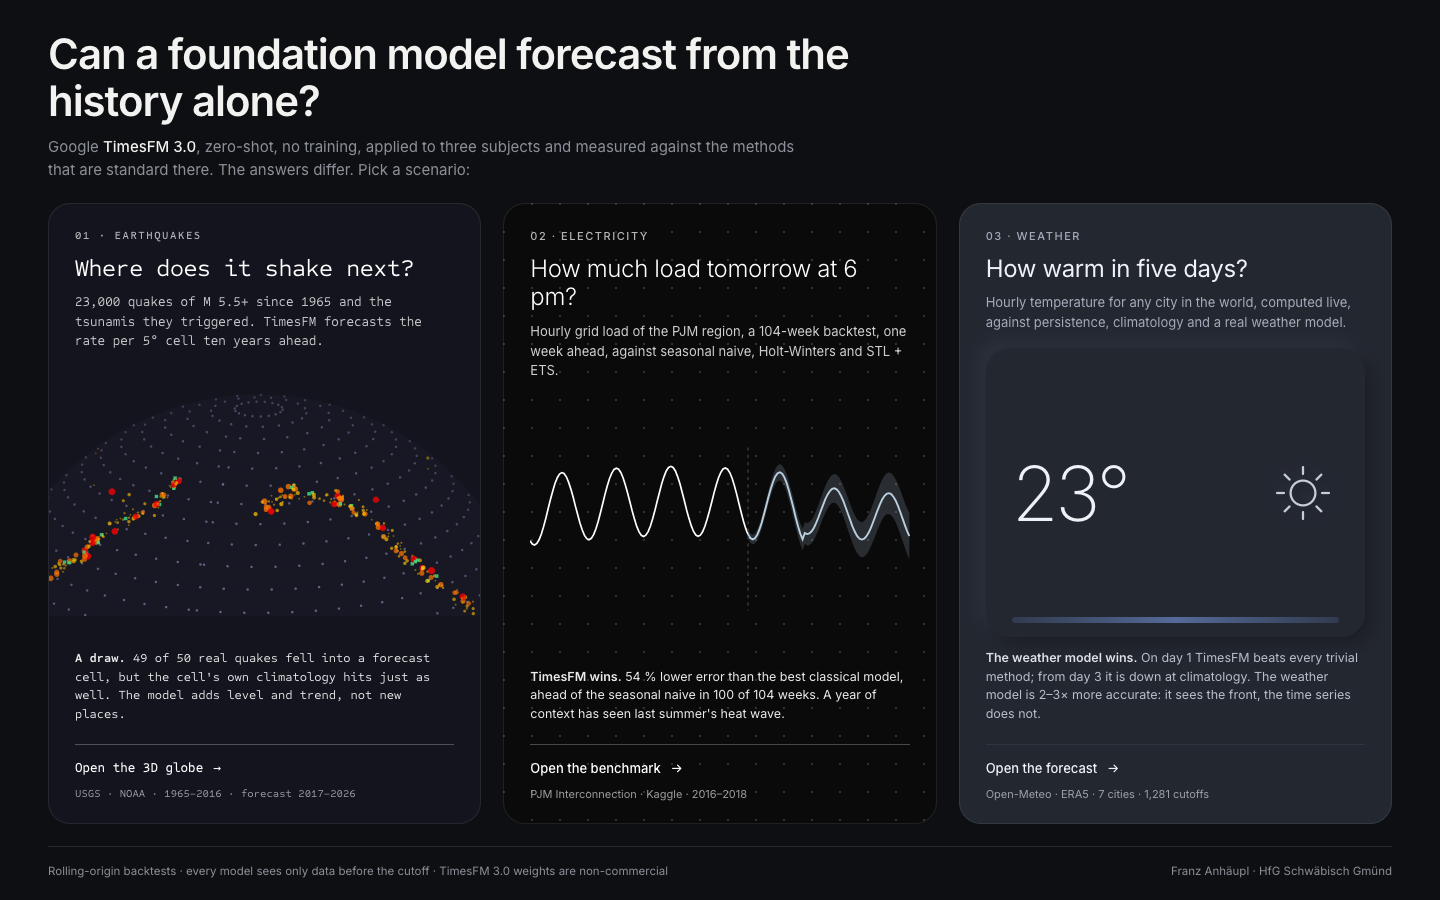
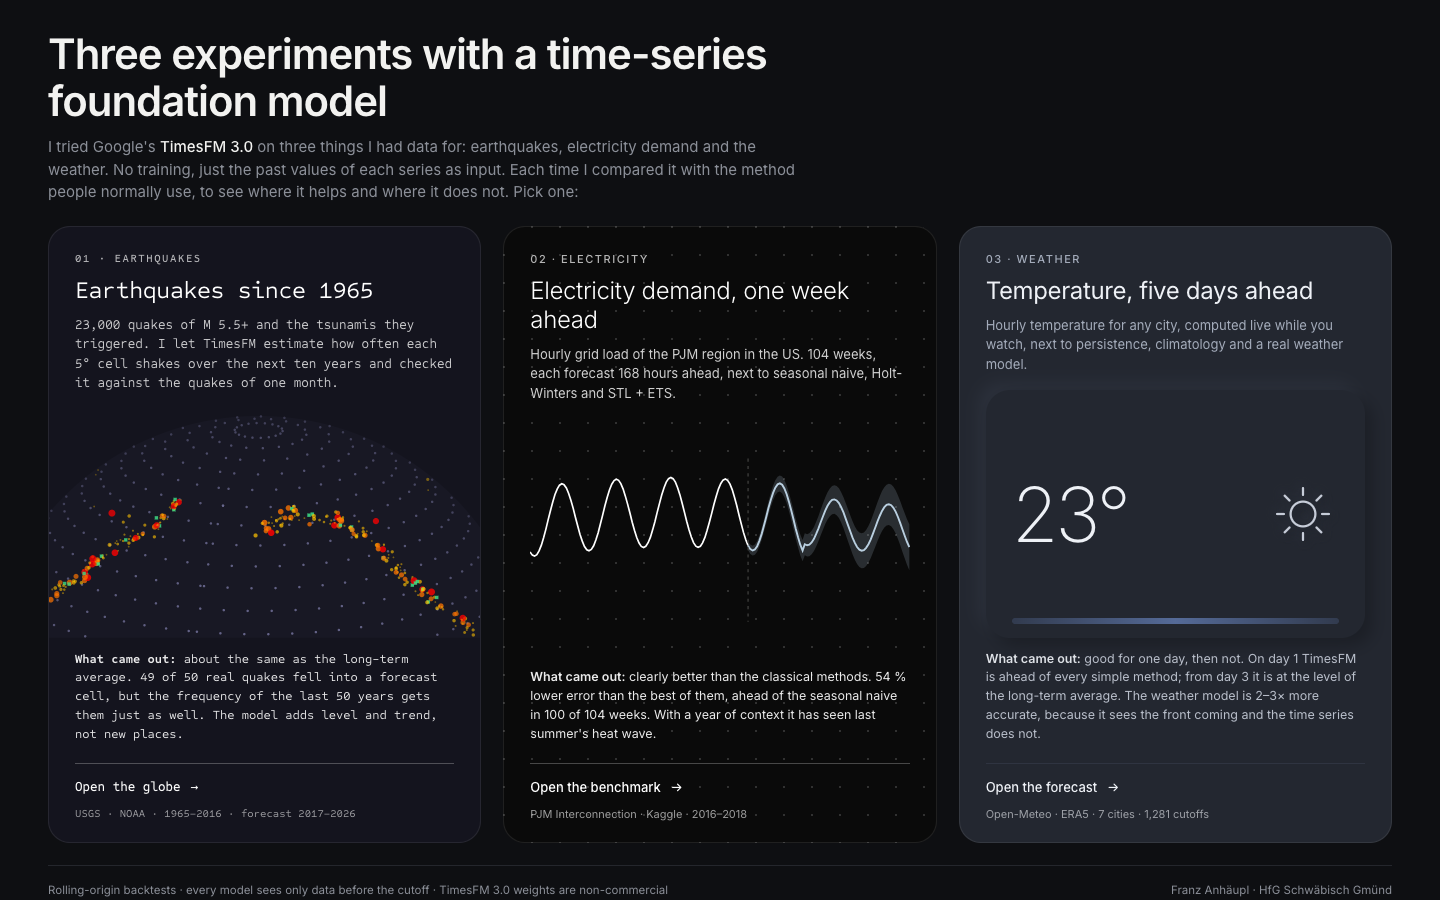
copy: plainer first-person wording on the start page, weather widget, grid verdict and README

diff --git a/src/hub/Hub.tsx b/src/hub/Hub.tsx
@@ -5,43 +5,44 @@ export default function Hub() {
   return (
     <main className="hub">
       <header className="hubHead">
-        <h1>Can a foundation model forecast from the history alone?</h1>
+        <h1>Three experiments with a time-series foundation model</h1>
         <p>
-          Google <b>TimesFM 3.0</b>, zero-shot, no training, applied to three subjects and measured against the methods
-          that are standard there. The answers differ. Pick a scenario:
+          I tried Google's <b>TimesFM 3.0</b> on three things I had data for: earthquakes, electricity demand and the
+          weather. No training, just the past values of each series as input. Each time I compared it with the method
+          people normally use, to see where it helps and where it does not. Pick one:
         </p>
       </header>
 
       <nav className="tiles" aria-label="Scenarios">
         <a className="tile quake" href="./erdbeben.html">
           <span className="no">01 · Earthquakes</span>
-          <h2>Where does it shake next?</h2>
-          <p className="q">23,000 quakes of M 5.5+ since 1965 and the tsunamis they triggered. TimesFM forecasts the rate per 5° cell ten years ahead.</p>
+          <h2>Earthquakes since 1965</h2>
+          <p className="q">23,000 quakes of M 5.5+ and the tsunamis they triggered. I let TimesFM estimate how often each 5° cell shakes over the next ten years and checked it against the quakes of one month.</p>
           <QuakeArt />
           <p className="verdict">
-            <b>A draw.</b> 49 of 50 real quakes fell into a forecast cell, but the cell's own climatology hits just as well. The model adds level and trend, not new places.
+            <b>What came out:</b> about the same as the long-term average. 49 of 50 real quakes fell into a forecast cell, but the frequency of the last 50 years gets them just as well. The model adds level and trend, not new places.
           </p>
-          <span className="open">Open the 3D globe <i>→</i><small>USGS · NOAA · 1965–2016 · forecast 2017–2026</small></span>
+          <span className="open">Open the globe <i>→</i><small>USGS · NOAA · 1965–2016 · forecast 2017–2026</small></span>
         </a>
 
         <a className="tile grid" href="./strom.html">
           <span className="no">02 · Electricity</span>
-          <h2>How much load tomorrow at 6 pm?</h2>
-          <p className="q">Hourly grid load of the PJM region, a 104-week backtest, one week ahead, against seasonal naive, Holt-Winters and STL + ETS.</p>
+          <h2>Electricity demand, one week ahead</h2>
+          <p className="q">Hourly grid load of the PJM region in the US. 104 weeks, each forecast 168 hours ahead, next to seasonal naive, Holt-Winters and STL + ETS.</p>
           <GridArt />
           <p className="verdict">
-            <b>TimesFM wins.</b> 54 % lower error than the best classical model, ahead of the seasonal naive in 100 of 104 weeks. A year of context has seen last summer's heat wave.
+            <b>What came out:</b> clearly better than the classical methods. 54 % lower error than the best of them, ahead of the seasonal naive in 100 of 104 weeks. With a year of context it has seen last summer's heat wave.
           </p>
           <span className="open">Open the benchmark <i>→</i><small>PJM Interconnection · Kaggle · 2016–2018</small></span>
         </a>
 
         <a className="tile weather" href="./wetter.html">
           <span className="no">03 · Weather</span>
-          <h2>How warm in five days?</h2>
-          <p className="q">Hourly temperature for any city in the world, computed live, against persistence, climatology and a real weather model.</p>
+          <h2>Temperature, five days ahead</h2>
+          <p className="q">Hourly temperature for any city, computed live while you watch, next to persistence, climatology and a real weather model.</p>
           <WeatherArt />
           <p className="verdict">
-            <b>The weather model wins.</b> On day 1 TimesFM beats every trivial method; from day 3 it is down at climatology. The weather model is 2–3× more accurate: it sees the front, the time series does not.
+            <b>What came out:</b> good for one day, then not. On day 1 TimesFM is ahead of every simple method; from day 3 it is at the level of the long-term average. The weather model is 2–3× more accurate, because it sees the front coming and the time series does not.
           </p>
           <span className="open">Open the forecast <i>→</i><small>Open-Meteo · ERA5 · 7 cities · 1,281 cutoffs</small></span>
         </a>

diff --git a/src/wetter/components/Duel.tsx b/src/wetter/components/Duel.tsx
@@ -32,7 +32,7 @@ export default function Duel({ err, hind, days, onOpen }: Props) {
   if (!err || !err.byLead.nwp) {
     return (
       <section className="raised duel" aria-label="Model comparison">
-        <span className="label">Who wins?</span>
+        <span className="label">TimesFM vs. weather model</span>
         <p className="duelNote">
           No backtest for this place yet. Run <code>weather/backtest.py</code>.
         </p>
@@ -52,7 +52,7 @@ export default function Duel({ err, hind, days, onOpen }: Props) {
   return (
     <section className="raised duel" aria-label="Model comparison">
       <div className="duelHead">
-        <span className="label">Who wins?</span>
+        <span className="label">TimesFM vs. weather model</span>
         <span className="duelSub">
           Backtest {err.city} {err.year} · {err.cutoffs} cutoffs
         </span>

diff --git a/src/strom/App.tsx b/src/strom/App.tsx
@@ -151,16 +151,16 @@ function headline(
     lead,
     verdict: (
       <>
-        The foundation model wins{' '}
+        TimesFM had the lower error in{' '}
         <b>
           {winsVsBest} of {n} weeks
         </b>{' '}
-        against the best classical method, at <b>{pct}</b> {maeGain > 0 ? 'lower' : 'higher'} error.
+        compared with the best classical method, <b>{pct}</b> {maeGain > 0 ? 'lower' : 'higher'} over the whole period.
         {winsVsNaive != null && (
           <>
             {' '}
-            It beats “same hour last week” in {winsVsNaive} of {n}. Zero-shot: no training, no tuning, no
-            weather.
+            Against “same hour last week” it was ahead in {winsVsNaive} of {n}. No training, no tuning, no weather
+            data, only the load history.
           </>
         )}
       </>

diff --git a/README.md b/README.md
@@ -2,10 +2,8 @@
 
 # Future Lab
 
-**Can an AI model read the future from the past?**
-One model, three subjects, three honest answers.
-
-Earthquakes · Electricity · Weather, each measured against whatever is the standard there.
+**Three experiments with a time-series foundation model.**
+Earthquakes, electricity demand and weather, each compared with the method people normally use.
 
 [The site](#the-site) · [How it works](#how-it-works) · [Results](#the-results) · [What we learned](#what-we-learned) · [Open work](#open-work-and-known-issues) · [Run it yourself](#run-it-yourself) · [Data & licences](#data-and-licences)
 
@@ -19,16 +17,16 @@ Google released **TimesFM 3.0**, a model trained on billions of time series: sal
 web traffic, whatever. The idea: you hand it any series of numbers from the past and it predicts the next
 values. **No training, no tuning, no idea what the numbers mean.** That is called *zero-shot*.
 
-It sounds like magic. So we pointed it at three very different things and asked the same question each time:
-*Is this really better than what people do anyway?*
+I found that interesting and wanted to see what it does on data I had around. So I tried it on three very
+different things and compared it each time with the method people normally use.
 
 | | Scenario | The question | Opponent | Result |
 |---|---|---|---|---|
-| 01 | **Earthquakes** | Where does it shake next? | The frequency of the last 50 years | **A draw** |
-| 02 | **Electricity** | How much load does the grid draw tomorrow at 6 pm? | Classical statistics (Holt-Winters, STL) | **TimesFM wins** |
-| 03 | **Weather** | How warm will it be in five days? | A real weather model (ICON, ECMWF) | **The weather model wins** |
+| 01 | **Earthquakes** | How often will each region shake in the next ten years? | The frequency of the last 50 years | About the same as the long-term average |
+| 02 | **Electricity** | How much load will the grid draw next week, hour by hour? | Classical statistics (Holt-Winters, STL) | Clearly better than the classical methods |
+| 03 | **Weather** | How warm will it be in five days? | A real weather model (ICON, ECMWF) | Good for one day, then the weather model is 2–3× more accurate |
 
-The short explanation of why the answers differ so much is at the end. It is the actual finding of the project.
+Why the three came out so differently is explained at the end; that turned out to be the most interesting part.
 
 ## The site
 
